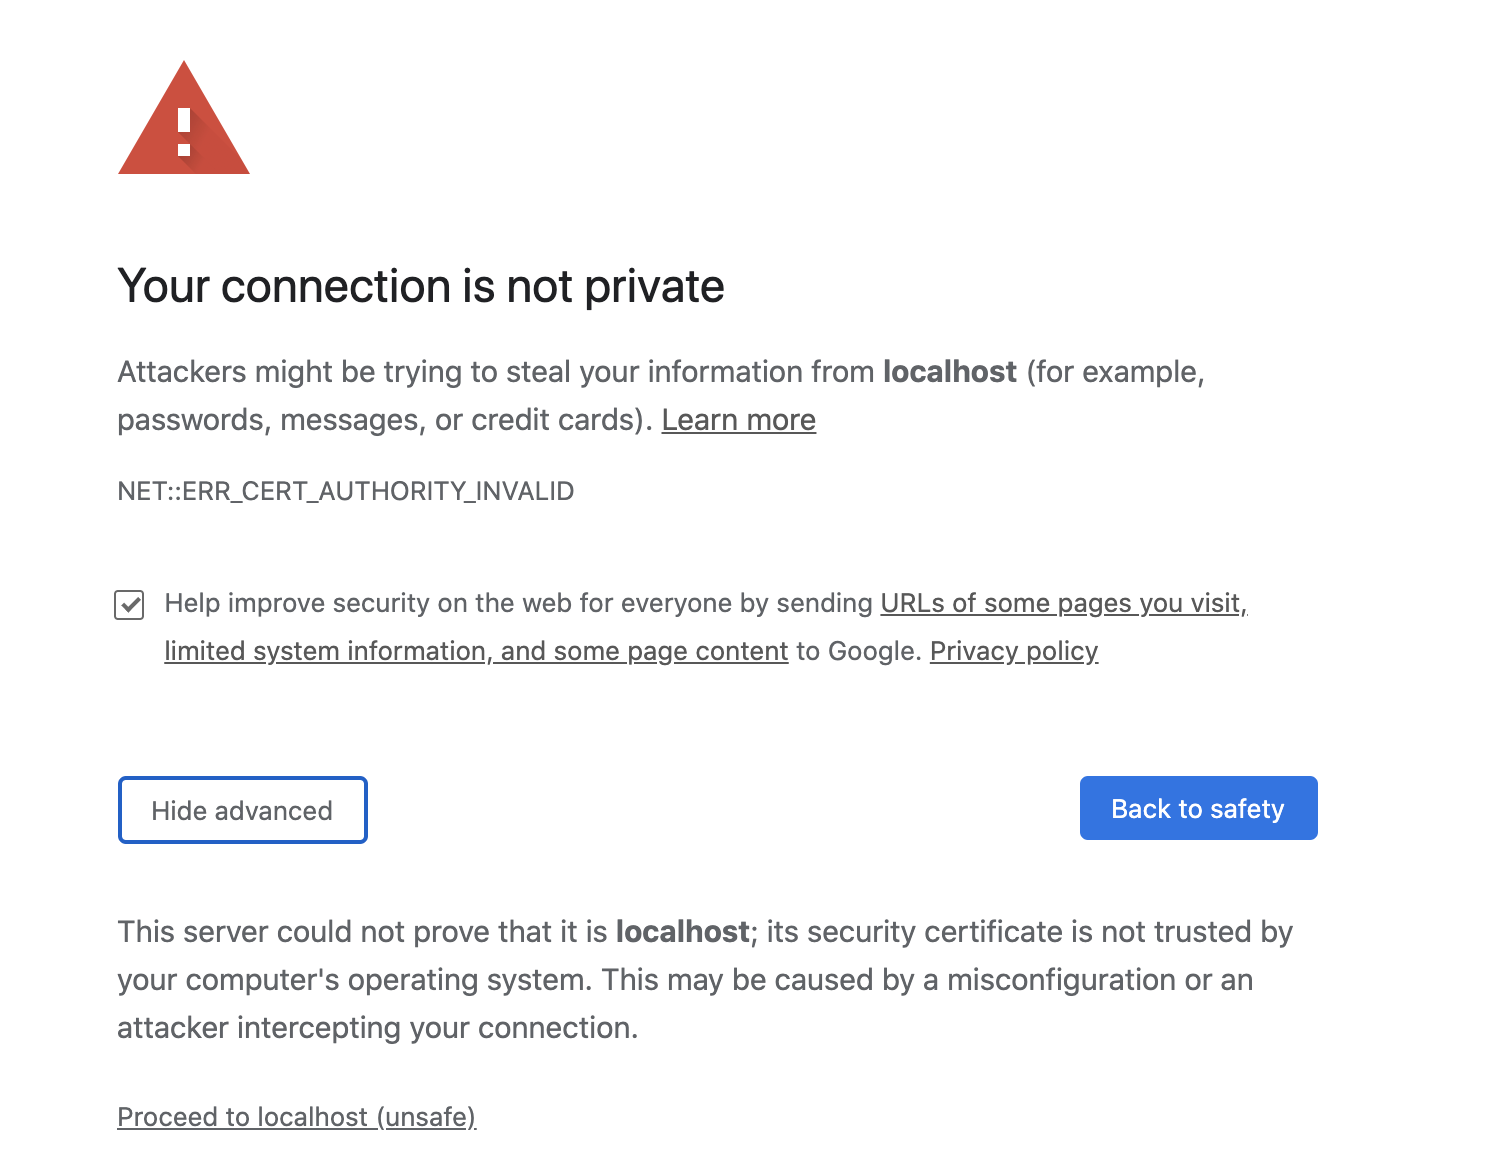
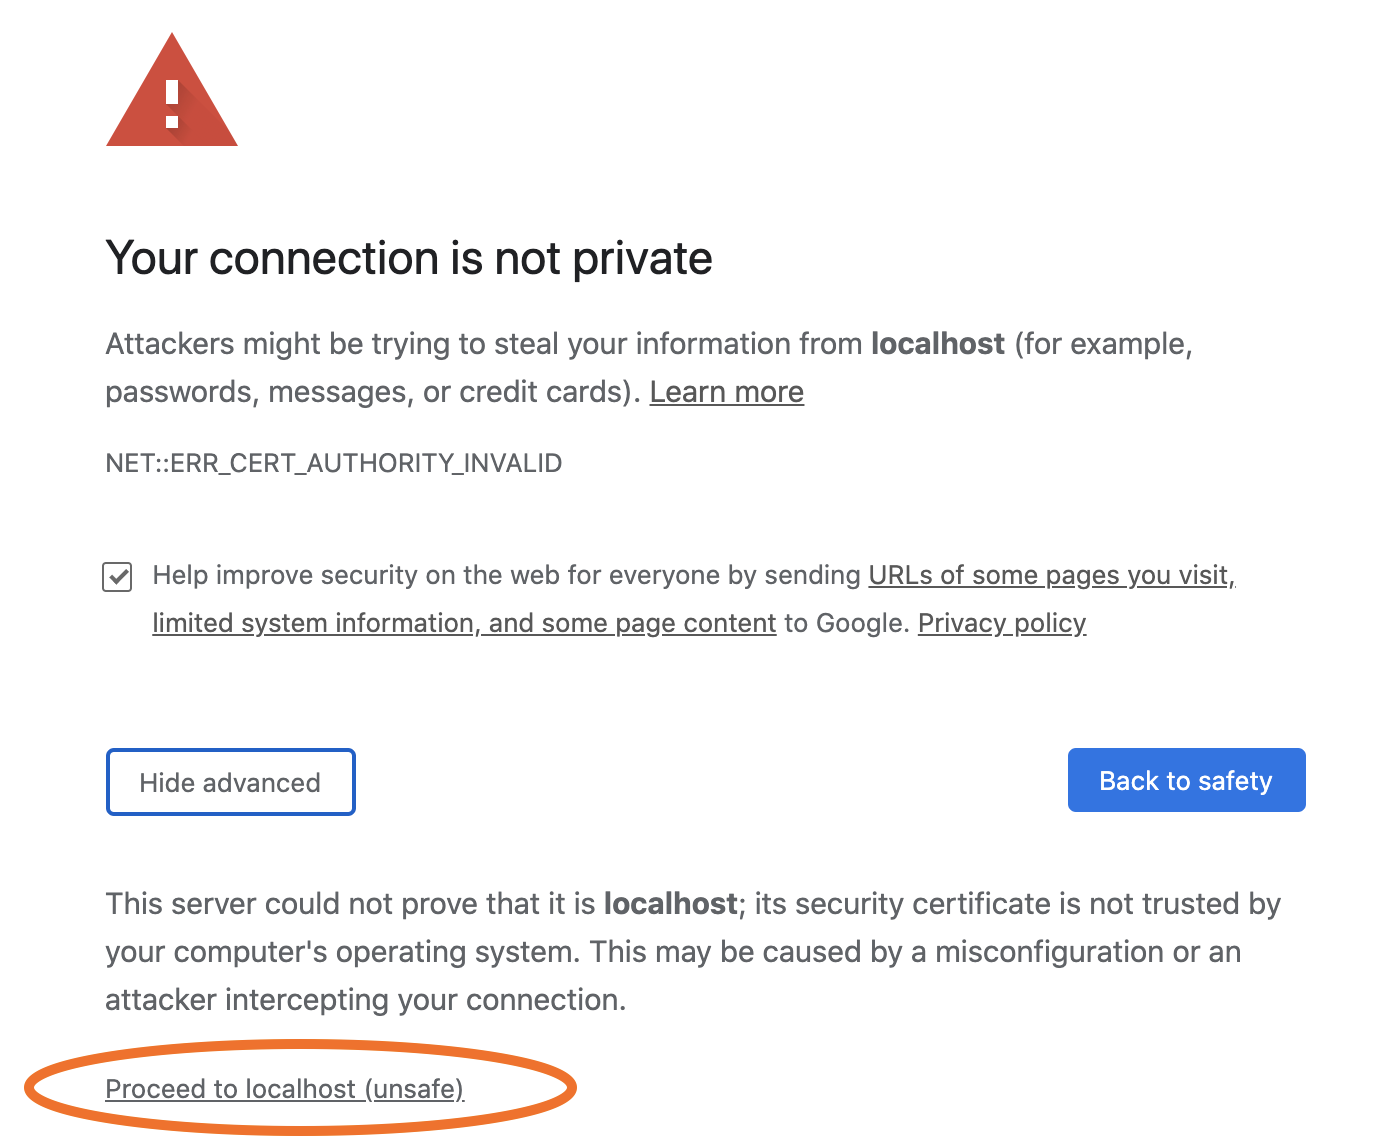
Cleanup

diff --git a/docs/index.rst b/docs/index.rst
@@ -102,7 +102,7 @@ It generates the keys and certificates, brings up the Docker containers, and con
 You can run it with optional settings:
 
 - ``CLEAN``: controls whether certificates and the locally built |kconnect| image are regenerated in between runs
-- ``C3_KSQLDB_HTTPS``: sets Control Center and ksqlDB server to use ``HTTP`` (default) or ``HTTPS`` 
+- ``C3_KSQLDB_HTTPS``: sets |c3| and ksqlDB server to use ``HTTP`` (default) or ``HTTPS`` 
 
 #. To run ``cp-demo`` the first time with defaults, run the following command. This takes a few minutes to complete.
 
@@ -116,7 +116,7 @@ You can run it with optional settings:
 
       CLEAN=true ./scripts/start.sh
 
-#. ``cp-demo`` supports access to the |c3| GUI via either ``http://`` or secure ``https://``, the latter employing a self-signed CA and certificates generated during deployment. However, due to |c3| integrations to other components include ksqlDB server, only one mode at a time is fully supported. To elect to run ``cp-demo`` in ``https`` mode, set ``C3_KSQLDB_HTTPS=true`` when starting ``cp-demo``:
+#. ``cp-demo`` supports access to the |c3| GUI via either ``http://`` (the default) or secure ``https://``, the latter employing a self-signed CA and certificates generated during deployment. Due to |c3| integrations to other components include ksqlDB server, only one mode at a time is fully supported. To run ``cp-demo`` in ``https`` mode, set ``C3_KSQLDB_HTTPS=true`` when starting ``cp-demo``:
 
    .. sourcecode:: bash
 
@@ -155,13 +155,13 @@ Initial Checks
       zookeeper                     /etc/confluent/docker/run        Up (healthy)   0.0.0.0:2181->2181/tcp, 2888/tcp, 3888/tcp
 
 
-#. Jump to the end of the entire ``cp-demo`` pipeline, view the Kibana dashboard at http://localhost:5601/app/kibana#/dashboard/Wikipedia .  This is a cool view but also a good way to validate that the script completed successfully.
+#. Jump to the end of the entire ``cp-demo`` pipeline and view the Kibana dashboard at http://localhost:5601/app/kibana#/dashboard/Wikipedia .  This is a cool view and a good way to validate that the ``cp-demo`` start script completed successfully.
 
    .. figure:: images/kibana-dashboard.png
 
 #. View the full |cp| configuration in the :devx-cp-demo:`docker-compose.yml|docker-compose.yml` file.
 
-#. View the |kstreams| application configuration in the :devx-cp-demo:`client configuration|env_files/streams-demo.env` file, fully configured with security parameters to the |ak| cluster and |sr|.
+#. View the |kstreams| application configuration in the :devx-cp-demo:`client configuration|env_files/streams-demo.env` file, set with security parameters to the |ak| cluster and |sr|.
 
 
 ===============
@@ -171,11 +171,19 @@ Guided Tutorial
 Log into |c3| 
 -------------
 
-#. For this tutorial, log into |c3| as ``superUser`` and password ``superUser``, which has super user access to the cluster. You may also log in as :devx-cp-demo:`other users|scripts//security/ldap_users` to learn how each user's view changes depending on their permissions.
+#. If you ran ``cp-demo`` with default of ``C3_KSQLDB_HTTPS=false``, view the |c3| GUI from a web browser at the following URL:
 
-#. If you ran ``cp-demo`` with default of ``C3_KSQLDB_HTTPS=false``, using a web browser, view the |c3| GUI at http://localhost:9021.
+   .. code-block:: text
 
-#. If you ran ``cp-demo`` with ``C3_KSQLDB_HTTPS=true``, using a web browser, view the |c3| GUI at https://localhost:9022. Your browser will detect a self-signed, untrusted certificate and certificate-authority and issue a privacy warning as shown below. To proceed, you will need to accept this certificate using your browser's process for this, which will then last for the duration of that browser session.
+      http://localhost:9021
+
+#. If you ran ``cp-demo`` with ``C3_KSQLDB_HTTPS=true``, view the |c3| GUI from a web browser at the following URL:
+
+   .. code-block:: text
+
+      https://localhost:9022
+
+#. In the case of ``C3_KSQLDB_HTTPS=true``, the browser will detect a self-signed, untrusted certificate and certificate authority, and issue a privacy warning as shown below. To proceed, accept this certificate using your browser's process for this, which will then last for the duration of that browser session.
 
    - Chrome: click on ``Advanced`` and then when the window expands, click on ``Proceed to localhost (unsafe)``.
 
@@ -184,6 +192,10 @@ Log into |c3|
    - Safari: open a new private browsing window (``Shift + ⌘ + N``), click on ``Show Details`` and then when the window expands, click on ``visit this website``.
 
      .. figure:: images/c3-safari-cert-warning.png
+
+#. At the login screen, log into |c3| as ``superUser`` and password ``superUser``, which has super user access to the cluster. You may also log in as :devx-cp-demo:`other users|scripts//security/ldap_users` to learn how each user's view changes depending on their permissions.
+
+   .. figure:: images/c3-login.png
 
 
 Brokers 
